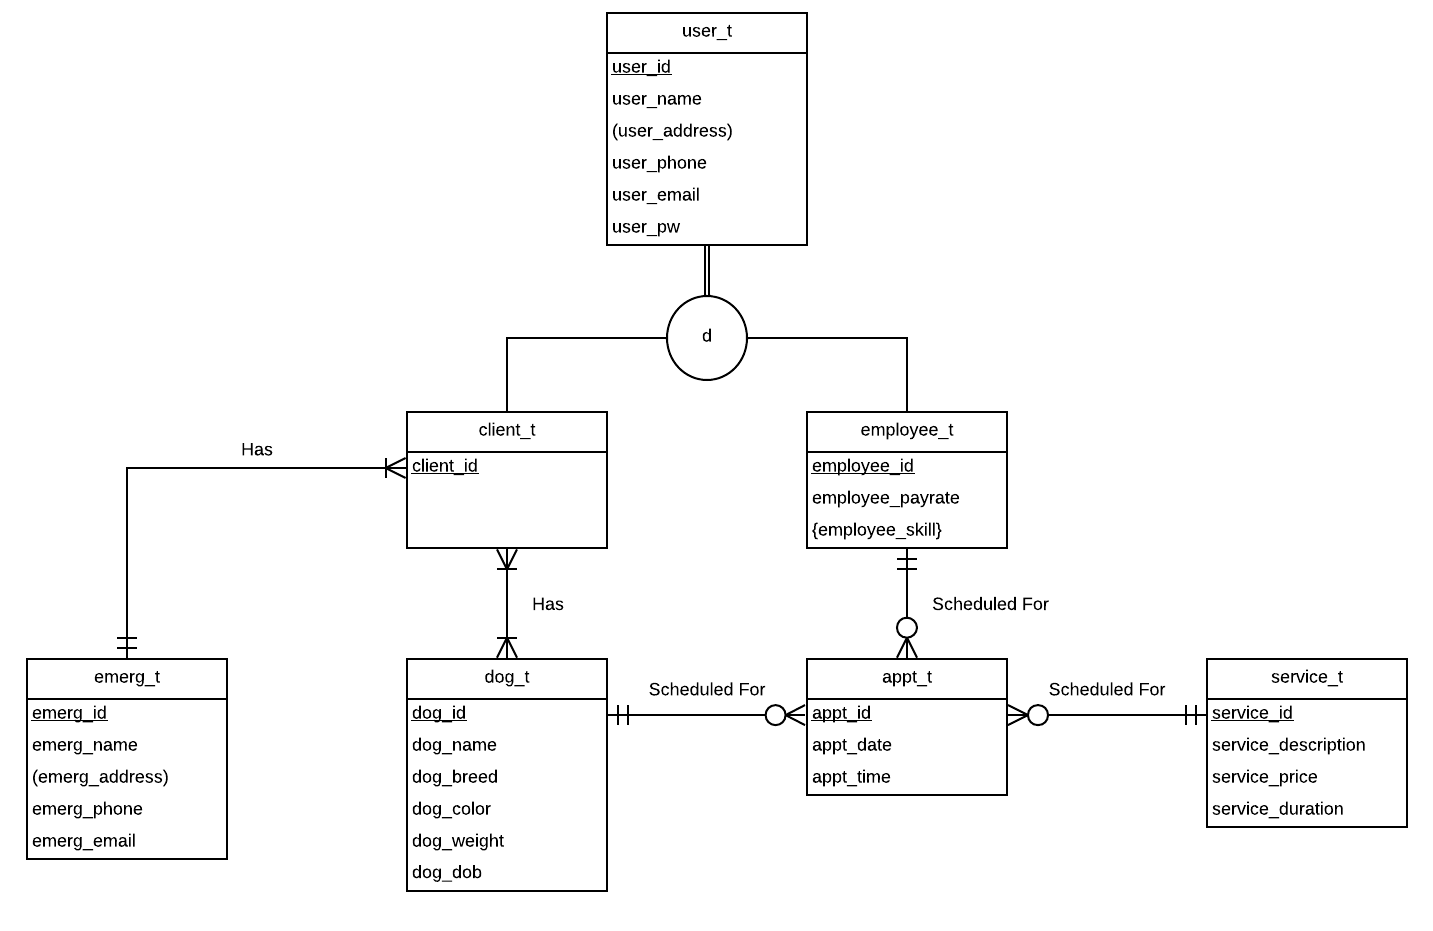
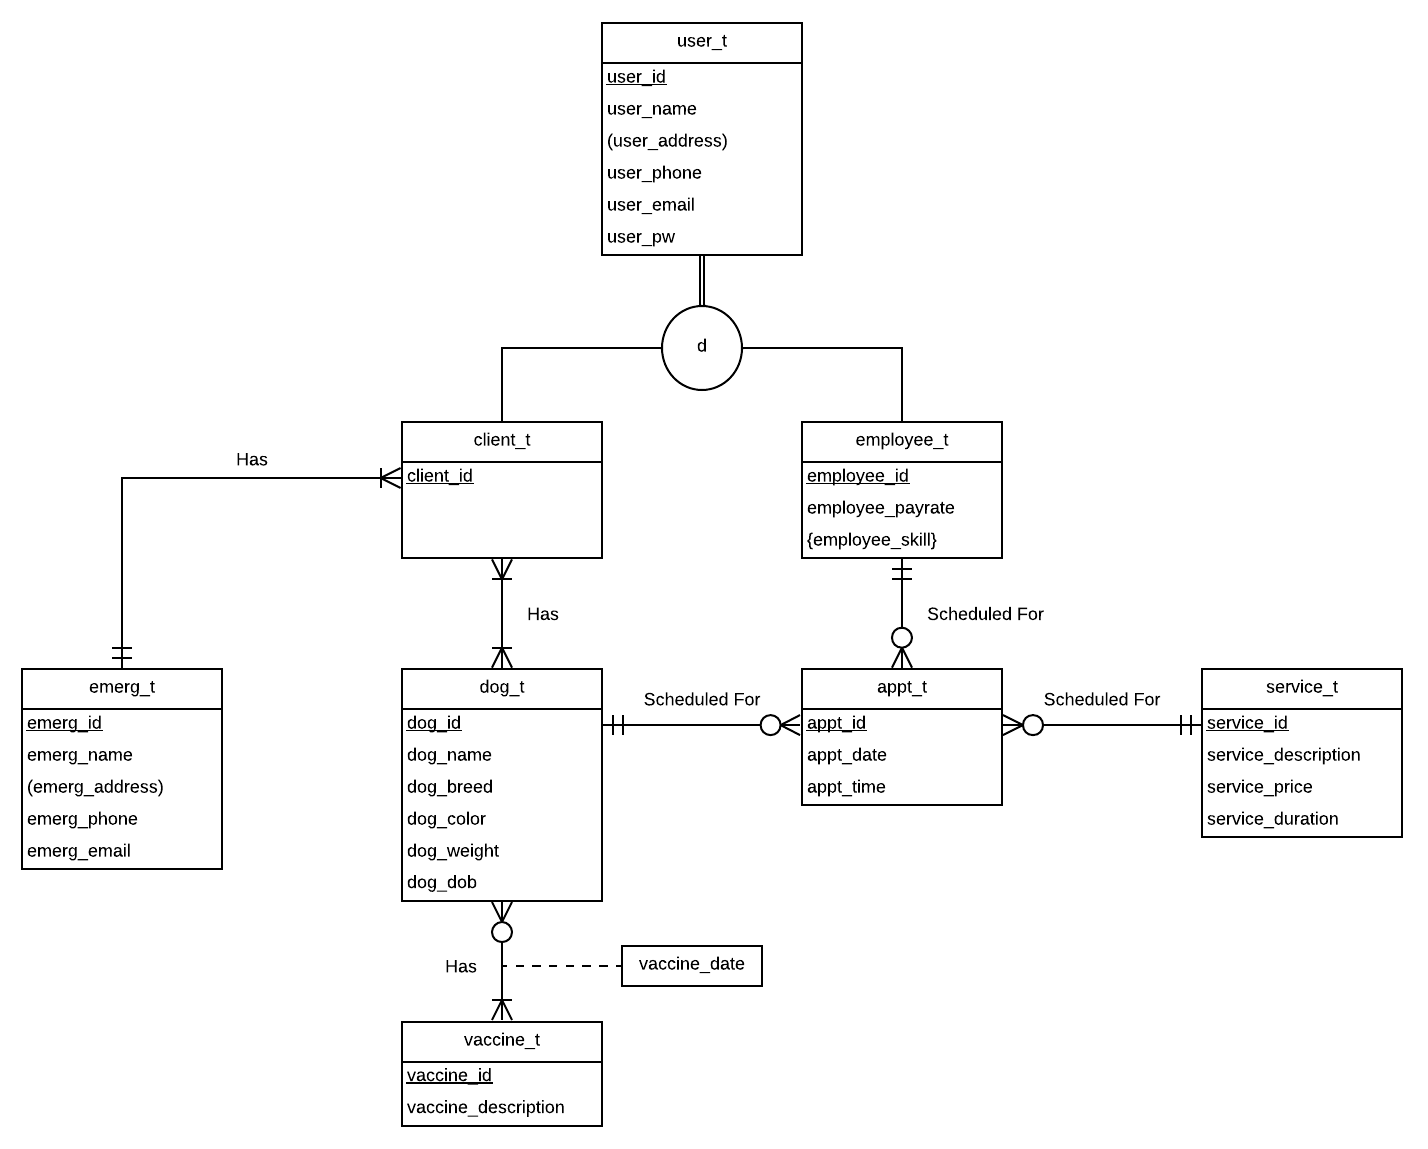
eighth commit
quit

diff --git a/README.md b/README.md
@@ -21,6 +21,8 @@ Simple database to manage a dog daycare. Created with Oracle SQL.
 
 ## Tables
 
+Here we create the tables.
+
 ```SQL
 create table user_t
 (user_id varchar2(5),
@@ -109,6 +111,112 @@ constraint appt_fk2 foreign key (employee_id) references employee_t(employee_id)
 constraint appt_fk3 foreign key (service_id) references service_t(service_id));
 ```
 
+## Data
+
+Here we insert the fake data.
+
+```SQL
+
+-- insert users
+INSERT INTO user_t (user_id,user_name,user_street,user_city,user_state,user_zip,user_phone,user_email,user_pw) VALUES ('00001','Warren Casey','2814 Volutpat Ave','Belmont','MA','02330','0462714005','metuser@aol.com','CWU38WEE0IV');
+INSERT INTO user_t (user_id,user_name,user_street,user_city,user_state,user_zip,user_phone,user_email,user_pw) VALUES ('00002','Abraham Henderson','826 Mauris Rd','Plymouth','MA','01563','4060580383','quam.curabitur@bu.edu','NLY08JBR8RN');
+INSERT INTO user_t (user_id,user_name,user_street,user_city,user_state,user_zip,user_phone,user_email,user_pw) VALUES ('00003','Tiger Fitzgerald','4820 Suspendisse Ave','Birmingham','AL','11805','6372327046','montes.nascetur@gmail.com','YXK36EGJ6QY');
+INSERT INTO user_t (user_id,user_name,user_street,user_city,user_state,user_zip,user_phone,user_email,user_pw) VALUES ('00004','Allistair Orti','7228 Ullamcorper St','Arlington','MA','02486','7318037089','facilisis@gmail.com','UCY35YBC5FN');
+INSERT INTO user_t (user_id,user_name,user_street,user_city,user_state,user_zip,user_phone,user_email,user_pw) VALUES ('00005','Basil Bullock','6870 Idaho Ave','Allston','MA','02134','7459110093','quis.pede@yahoo.net','BKT56WHA3NG');
+INSERT INTO user_t (user_id,user_name,user_street,user_city,user_state,user_zip,user_phone,user_email,user_pw) VALUES ('00006','Laura Kocubinski','1 Banana Ave','Banana Town','MA','12345','0123456789','eu.tellus.eu@ligula.edu','CRW82LYJ7VA');
+INSERT INTO user_t (user_id,user_name,user_street,user_city,user_state,user_zip,user_phone,user_email,user_pw) VALUES ('00007','Talon Austin','9127 Erat Ave','"Patalillo','CA','15789','2104288618','tristique.pharetra@ligula.net','DSB99KAL8AU');
+INSERT INTO user_t (user_id,user_name,user_street,user_city,user_state,user_zip,user_phone,user_email,user_pw) VALUES ('00008','Solomon Mccullough','6106 Et Rd','Norfolk','VA','910902','8791767147','scelerisque@sit.ca','GIK99RLY6PH');
+INSERT INTO user_t (user_id,user_name,user_street,user_city,user_state,user_zip,user_phone,user_email,user_pw) VALUES ('00009','John French','6618 Accumsan St','Castello','MA','57658','8330841102','nunc.ac.mattis@enim.com','YYV80VPH2AA');
+INSERT INTO user_t (user_id,user_name,user_street,user_city,user_state,user_zip,user_phone,user_email,user_pw) VALUES ('00010','Kadeem Miles','816 Quis St','Upplands','MI','07667','2727491646','sagittis.placerat@sed.com','VVR37YPO6QU');
+INSERT INTO user_t (user_id,user_name,user_street,user_city,user_state,user_zip,user_phone,user_email,user_pw) VALUES ('00011','Zeus Leblanc','9283 Iaculis Road','Lagos','LA','05840','0202956951','nisl.elementum@unec.com"','PGD70YFL0NS');
+INSERT INTO user_t (user_id,user_name,user_street,user_city,user_state,user_zip,user_phone,user_email,user_pw) VALUES ('00012','Honorato Russell','9273 Urna St','Kaiserslauter','RI','90915','8594147810','blandit.consequat@rutr.edu','VXR46DFJ1CS');
+
+-- insert emergency contact
+INSERT INTO emerg_t (emerg_id,emerg_name,emerg_street,emerg_city,emerg_state,emerg_zip,emerg_phone,emerg_email) VALUES ('00001','Laura Kocubinski','2 Banana Ave','Banana','MA','12345','0123456789','mauris.blandit@aol.com');
+INSERT INTO emerg_t (emerg_id,emerg_name,emerg_street,emerg_city,emerg_state,emerg_zip,emerg_phone,emerg_email) VALUES ('00002','Seth Moses','457 Adipiscing Ave','Auxerre','WI','82049','4194045624','id@risus.net');
+INSERT INTO emerg_t (emerg_id,emerg_name,emerg_street,emerg_city,emerg_state,emerg_zip,emerg_phone,emerg_email) VALUES ('00003','Caldwell Mills','2962 Neque St','Hoorn','NB','16796','3130017171','sit@vitae.co.uk');
+INSERT INTO emerg_t (emerg_id,emerg_name,emerg_street,emerg_city,emerg_state,emerg_zip,emerg_phone,emerg_email) VALUES ('00004','Maxwell Cotton','810 Enim Ave','Whitby','OR','36908','6652800677','donec.nibh@duiin.net');
+INSERT INTO emerg_t (emerg_id,emerg_name,emerg_street,emerg_city,emerg_state,emerg_zip,emerg_phone,emerg_email) VALUES ('00005','John Marsh','712 Amet Ave','Galway','MI','70326','4653160224','nibh.donec@nulla.edu');
+INSERT INTO emerg_t (emerg_id,emerg_name,emerg_street,emerg_city,emerg_state,emerg_zip,emerg_phone,emerg_email) VALUES ('00006','Clark Schneider','2287 Nulla Street','Mandurah','WA','44232','1268645605','auctor.nunc@etul.com');
+INSERT INTO emerg_t (emerg_id,emerg_name,emerg_street,emerg_city,emerg_state,emerg_zip,emerg_phone,emerg_email) VALUES ('00007','Garrett Hubbard','7276 Est Ave','Vierzon','WY','15789','6311762976','malesuada.ut@saol.com');
+
+-- insert employees
+INSERT INTO employee_t (employee_id,employee_payrate) VALUES ('00001',15.00);
+INSERT INTO employee_t (employee_id,employee_payrate) VALUES ('00002',20.00);
+INSERT INTO employee_t (employee_id,employee_payrate) VALUES ('00003',14.00);
+INSERT INTO employee_t (employee_id,employee_payrate) VALUES ('00004',22.50);
+INSERT INTO employee_t (employee_id,employee_payrate) VALUES ('00005',18.50);
+
+-- insert clients
+INSERT INTO client_t (client_id,emerg_id) VALUES ('00006','00001');
+INSERT INTO client_t (client_id,emerg_id) VALUES ('00007','00002');
+INSERT INTO client_t (client_id,emerg_id) VALUES ('00008','00003');
+INSERT INTO client_t (client_id,emerg_id) VALUES ('00009','00004');
+INSERT INTO client_t (client_id,emerg_id) VALUES ('00010','00005');
+INSERT INTO client_t (client_id,emerg_id) VALUES ('00011','00006');
+INSERT INTO client_t (client_id,emerg_id) VALUES ('00012','00007');
+
+-- insert dogs
+INSERT INTO dog_t (dog_id,dog_name,dog_breed,dog_color,dog_weight,dog_dob) VALUES ('00001','Tink','Poodle','Black',13.0,to_date('01-NOV-17','DD-MON-RR'));
+INSERT INTO dog_t (dog_id,dog_name,dog_breed,dog_color,dog_weight,dog_dob) VALUES ('00002','Fido','Pug','Tan',15.0,to_date('01-JAN-14','DD-MON-RR'));
+INSERT INTO dog_t (dog_id,dog_name,dog_breed,dog_color,dog_weight,dog_dob) VALUES ('00003','Stella','Pitbull','White and Black',45.0,to_date('01-JAN-17','DD-MON-RR'));
+INSERT INTO dog_t (dog_id,dog_name,dog_breed,dog_color,dog_weight,dog_dob) VALUES ('00004','Coco','Chihuahua Mix','Brown',40.0,to_date('01-JAN-16','DD-MON-RR'));
+INSERT INTO dog_t (dog_id,dog_name,dog_breed,dog_color,dog_weight,dog_dob) VALUES ('00005','Brady','Golden Doodle','Tan',25.0,to_date('01-SEP-18','DD-MON-RR'));
+INSERT INTO dog_t (dog_id,dog_name,dog_breed,dog_color,dog_weight,dog_dob) VALUES ('00006','Spot','Beagle','Tan',32.0,to_date('01-JAN-19','DD-MON-RR'));
+INSERT INTO dog_t (dog_id,dog_name,dog_breed,dog_color,dog_weight,dog_dob) VALUES ('00007','Bear','Golden Retriever','Tan',45.0,to_date('01-JUN-15','DD-MON-RR'));
+INSERT INTO dog_t (dog_id,dog_name,dog_breed,dog_color,dog_weight,dog_dob) VALUES ('00008','Pepper','Terrier','Tan',20.0,to_date('01-JAN-12','DD-MON-RR'));
+INSERT INTO dog_t (dog_id,dog_name,dog_breed,dog_color,dog_weight,dog_dob) VALUES ('00009','Oreo','Pomeranian','Black/White',7.0,to_date('01-SEP-13','DD-MON-RR'));
+
+-- insert client dog
+INSERT INTO client_dog_t (client_id,dog_id) VALUES ('00006','00001');
+INSERT INTO client_dog_t (client_id,dog_id) VALUES ('00006','00002');
+INSERT INTO client_dog_t (client_id,dog_id) VALUES ('00007','00003');
+INSERT INTO client_dog_t (client_id,dog_id) VALUES ('00008','00004');
+INSERT INTO client_dog_t (client_id,dog_id) VALUES ('00010','00005');
+INSERT INTO client_dog_t (client_id,dog_id) VALUES ('00011','00006');
+INSERT INTO client_dog_t (client_id,dog_id) VALUES ('00012','00007');
+INSERT INTO client_dog_t (client_id,dog_id) VALUES ('00012','00008');
+INSERT INTO client_dog_t (client_id,dog_id) VALUES ('00012','00009');
+
+-- insert services
+INSERT INTO service_t (service_id,service_description,service_price,service_duration) VALUES ('01','Haircut',50.00,1.0);
+INSERT INTO service_t (service_id,service_description,service_price,service_duration) VALUES ('02','Half-Day',10.00,4.0);
+INSERT INTO service_t (service_id,service_description,service_price,service_duration) VALUES ('03','Full-Day',20.00,8.0);
+INSERT INTO service_t (service_id,service_description,service_price,service_duration) VALUES ('04','Boarding',50.00,24.0);
+INSERT INTO service_t (service_id,service_description,service_price,service_duration) VALUES ('05','Playgroup',20.00,1.0);
+
+-- insert skills
+INSERT INTO skill_t (skill_id,skill_description) VALUES ('01','Grooming');
+INSERT INTO skill_t (skill_id,skill_description) VALUES ('02','Dog Walking');
+INSERT INTO skill_t (skill_id,skill_description) VALUES ('03','Dog Sitting');
+
+-- insert employee skills
+INSERT INTO employee_skill_t (employee_id,skill_id) VALUES ('00001','01');
+INSERT INTO employee_skill_t (employee_id,skill_id) VALUES ('00002','03');
+INSERT INTO employee_skill_t (employee_id,skill_id) VALUES ('00003','03');
+INSERT INTO employee_skill_t (employee_id,skill_id) VALUES ('00004','03');
+INSERT INTO employee_skill_t (employee_id,skill_id) VALUES ('00004','02');
+INSERT INTO employee_skill_t (employee_id,skill_id) VALUES ('00005','01');
+INSERT INTO employee_skill_t (employee_id,skill_id) VALUES ('00005','02');
+
+-- insert appointments
+INSERT INTO appt_t (appt_id,appt_date,appt_time,dog_id,employee_id,service_id) VALUES ('00001',to_date('10-AUG-19','DD-MON-RR'),'2:00 PM','00001','00001','01');
+INSERT INTO appt_t (appt_id,appt_date,appt_time,dog_id,employee_id,service_id) VALUES ('00002',to_date('15-AUG-19','DD-MON-RR'),'2:00 PM','00002','00004','02');
+INSERT INTO appt_t (appt_id,appt_date,appt_time,dog_id,employee_id,service_id) VALUES ('00003',to_date('8-AUG-19','DD-MON-RR'),'8:00 AM','00001','00003','03');
+INSERT INTO appt_t (appt_id,appt_date,appt_time,dog_id,employee_id,service_id) VALUES ('00004',to_date('8-AUG-19','DD-MON-RR'),'8:00 AM','00005','00004','04');
+INSERT INTO appt_t (appt_id,appt_date,appt_time,dog_id,employee_id,service_id) VALUES ('00005',to_date('8-AUG-19','DD-MON-RR'),'12:00 PM','00003','00003','05');
+
+-- insert vaccines
+INSERT INTO vaccine_t (vaccine_id,vaccine_description) VALUES ('01','Rabies');
+INSERT INTO vaccine_t (vaccine_id,vaccine_description) VALUES ('02','Bordetella (Kennel Cough)');
+INSERT INTO vaccine_t (vaccine_id,vaccine_description) VALUES ('03','Distemper');
+
+-- insert vaccines
+INSERT INTO dog_vaccine_t (dog_id,vaccine_id,vaccine_date) VALUES ('00001','01',to_date('10-MAR-19','DD-MON-RR'));
+INSERT INTO dog_vaccine_t (dog_id,vaccine_id,vaccine_date) VALUES ('00001','02',to_date('10-MAR-19','DD-MON-RR'));
+INSERT INTO dog_vaccine_t (dog_id,vaccine_id,vaccine_date) VALUES ('00004','01',to_date('1-JAN-19','DD-MON-RR'));
+```
+
 ## Sample Queries
 
 Return dogs younger than 2 years old
@@ -155,8 +263,23 @@ inner join employee_t
 on appt_t.employee_id = employee_t.employee_id)
 inner join user_t
 on employee_t.employee_id = user_t.user_id)
+```
+
+Show vaccines of dog Tink
+```SQL
+-- show vaccines
+select dog_t.dog_name, vaccine_t.vaccine_description, dog_vaccine_t.vaccine_date
+from ((dog_t
+inner join dog_vaccine_t
+on dog_t.dog_id = dog_vaccine_t.dog_id)
+inner join vaccine_t
+on dog_vaccine_t.vaccine_id = vaccine_t.vaccine_id)
 where dog_t.dog_name = 'Tink'
 ```
+
+## Triggers
+
+Work in progress.
 
 ## Author
 
